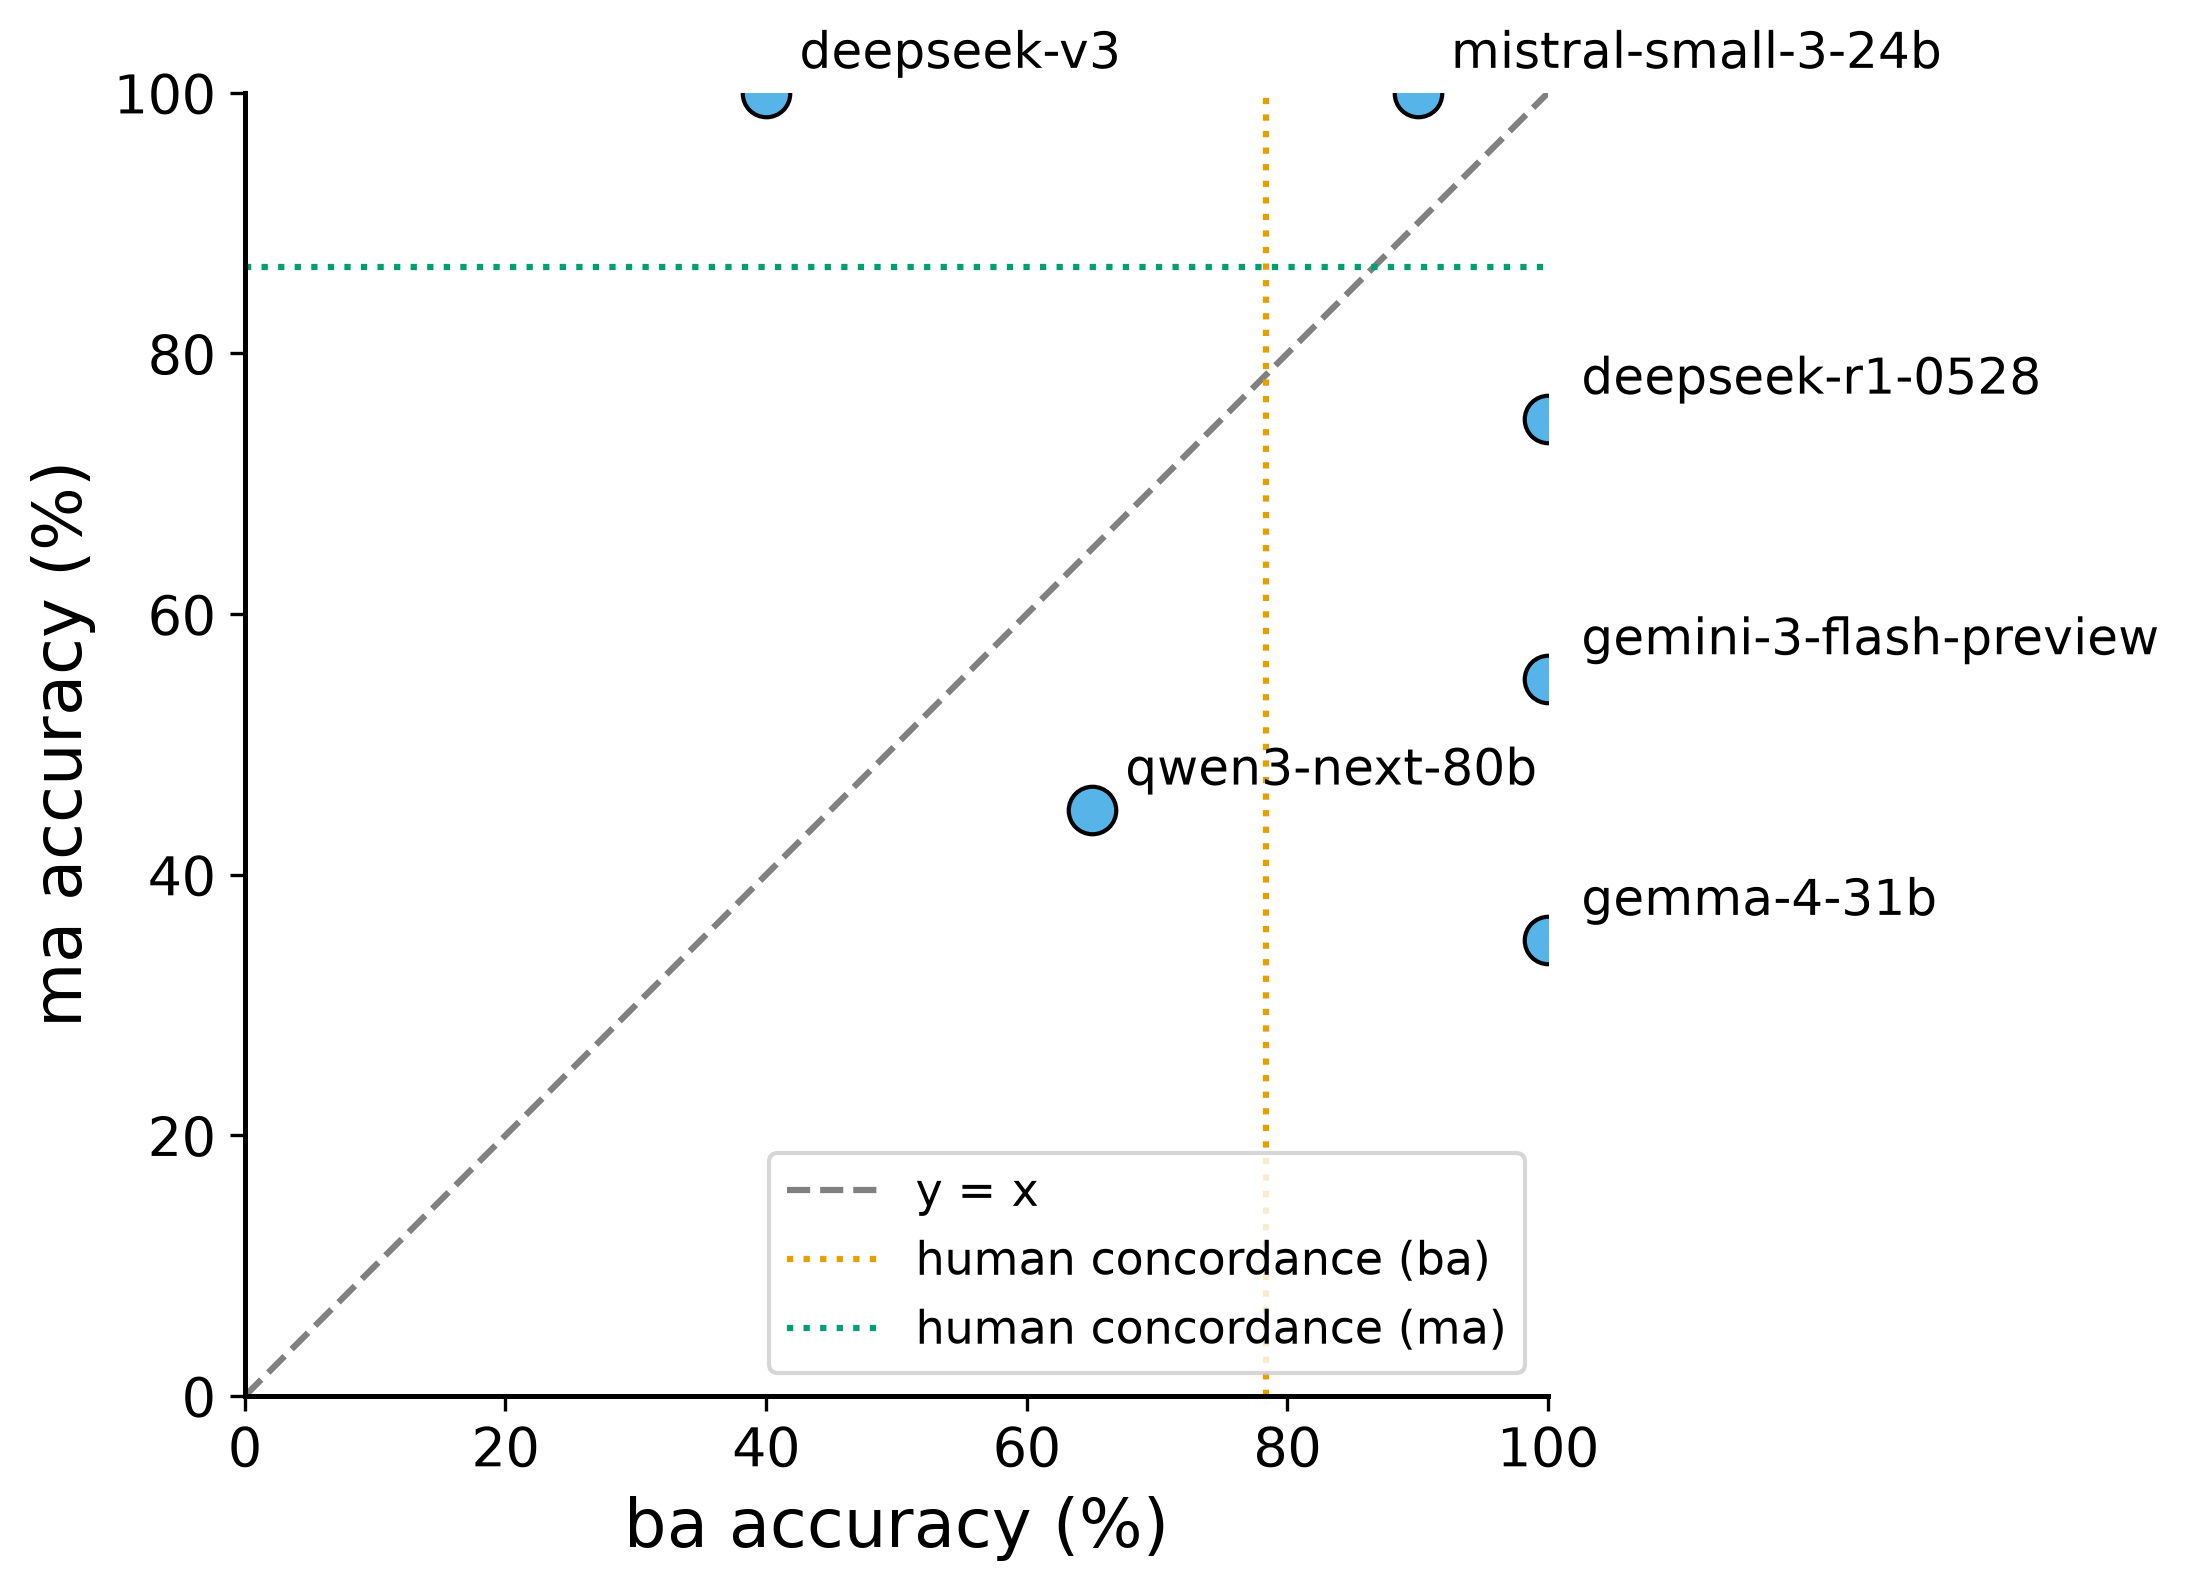
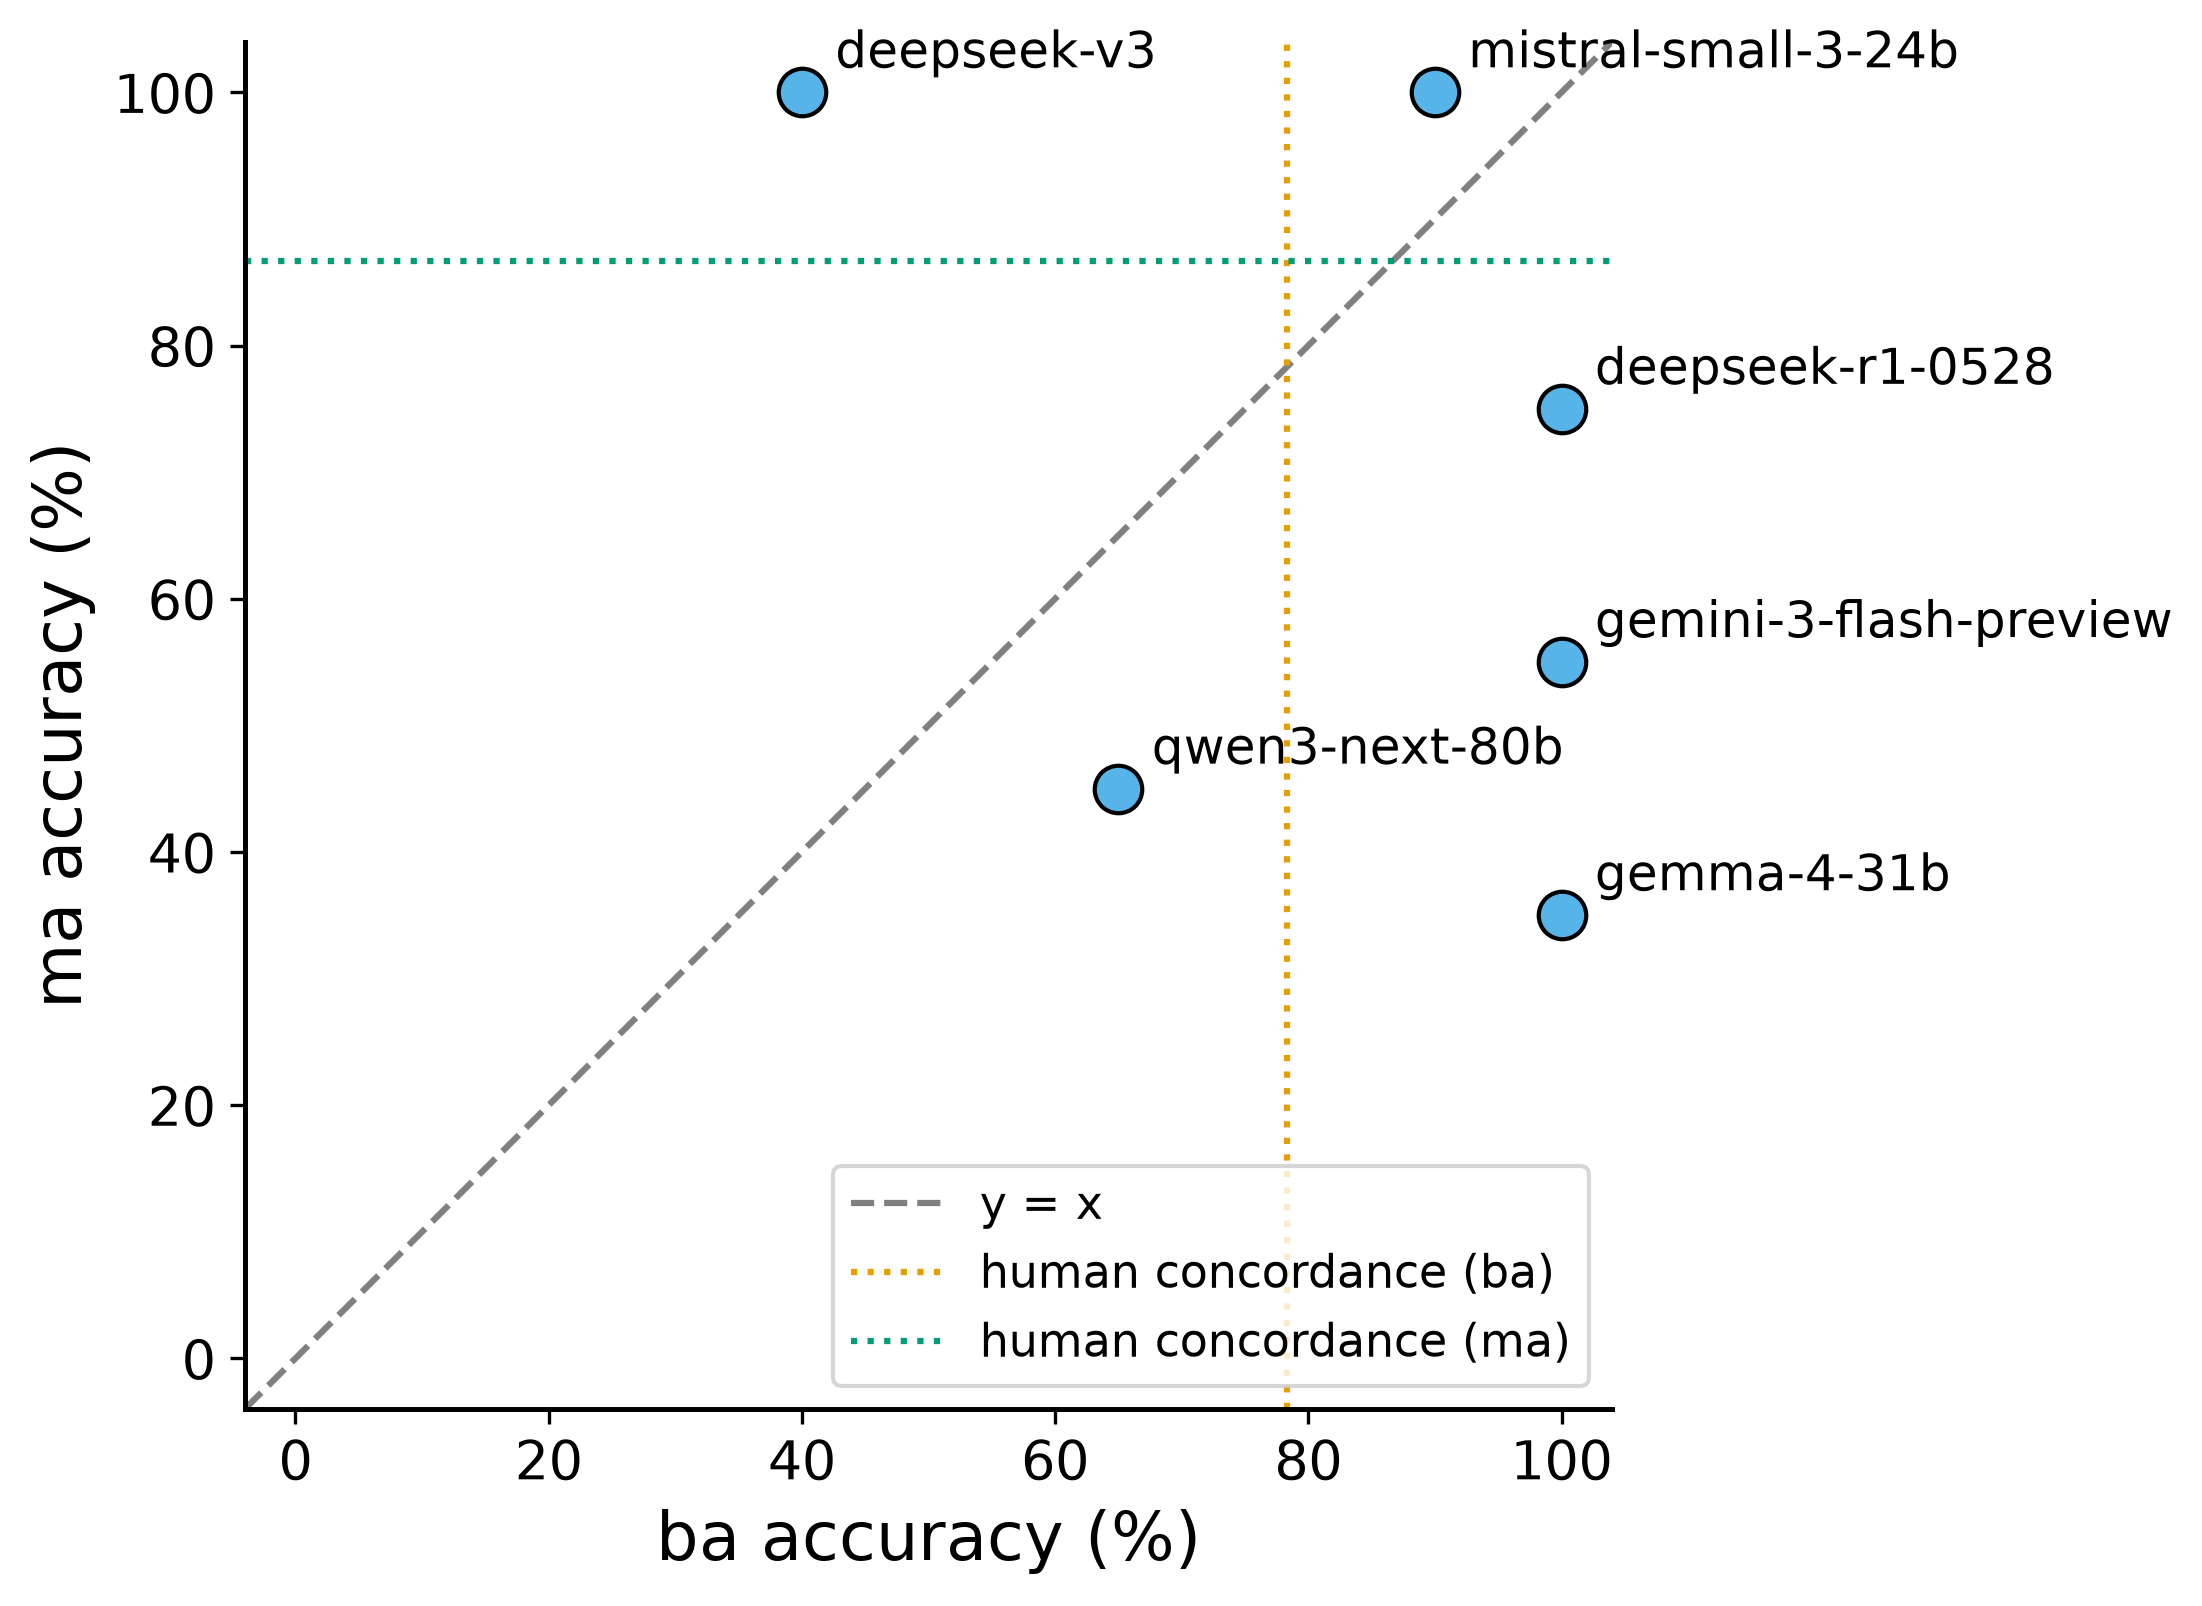
Fix fig3 scatter markers clipped at plot edges
ba/ma accuracy hits exactly 100% for several models; with axis limits set to
exactly [0, 100], those markers' circles were half-clipped by the axes
border. Pad the limits a few points past 0/100 (ticks stay pinned to the
natural 0/20/.../100 grid) so no marker touches the edge.

Claude-Session: https://claude.ai/code/session_018RjhkvuQ3UQLD3TkLc54t4

diff --git a/src/results_viz/figures.py b/src/results_viz/figures.py
@@ -124,8 +124,9 @@ def plot_ba_ma_scatter(condition_accuracy: dict, human_baseline: dict, output_pa
     apply_poster_style()
     models = _present_models(condition_accuracy)
 
+    pad = 4
     fig, ax = plt.subplots(figsize=(7.5, 7.5))
-    ax.plot([0, 100], [0, 100], linestyle="--", color="gray", linewidth=1.5, zorder=1, label="y = x")
+    ax.plot([-pad, 100 + pad], [-pad, 100 + pad], linestyle="--", color="gray", linewidth=1.5, zorder=1, label="y = x")
 
     for model in models:
         x = (condition_accuracy[model]["ba"]["accuracy"] or 0) * 100
@@ -142,8 +143,13 @@ def plot_ba_ma_scatter(condition_accuracy: dict, human_baseline: dict, output_pa
         ax.axhline(ma_concordance * 100, linestyle=":", color=CONDITION_COLORS["ma"], linewidth=1.5,
                    label="human concordance (ma)")
 
-    ax.set_xlim(0, 100)
-    ax.set_ylim(0, 100)
+    # Padded past [0, 100] so a point sitting exactly at 0 or 100 (several
+    # models hit 100 on ba or ma) doesn't have its marker clipped by the
+    # axes border -- ticks stay pinned to the natural 0/20/.../100 grid.
+    ax.set_xlim(-pad, 100 + pad)
+    ax.set_ylim(-pad, 100 + pad)
+    ax.set_xticks(range(0, 101, 20))
+    ax.set_yticks(range(0, 101, 20))
     ax.set_aspect("equal", adjustable="box")
     ax.set_xlabel("ba accuracy (%)")
     ax.set_ylabel("ma accuracy (%)")
